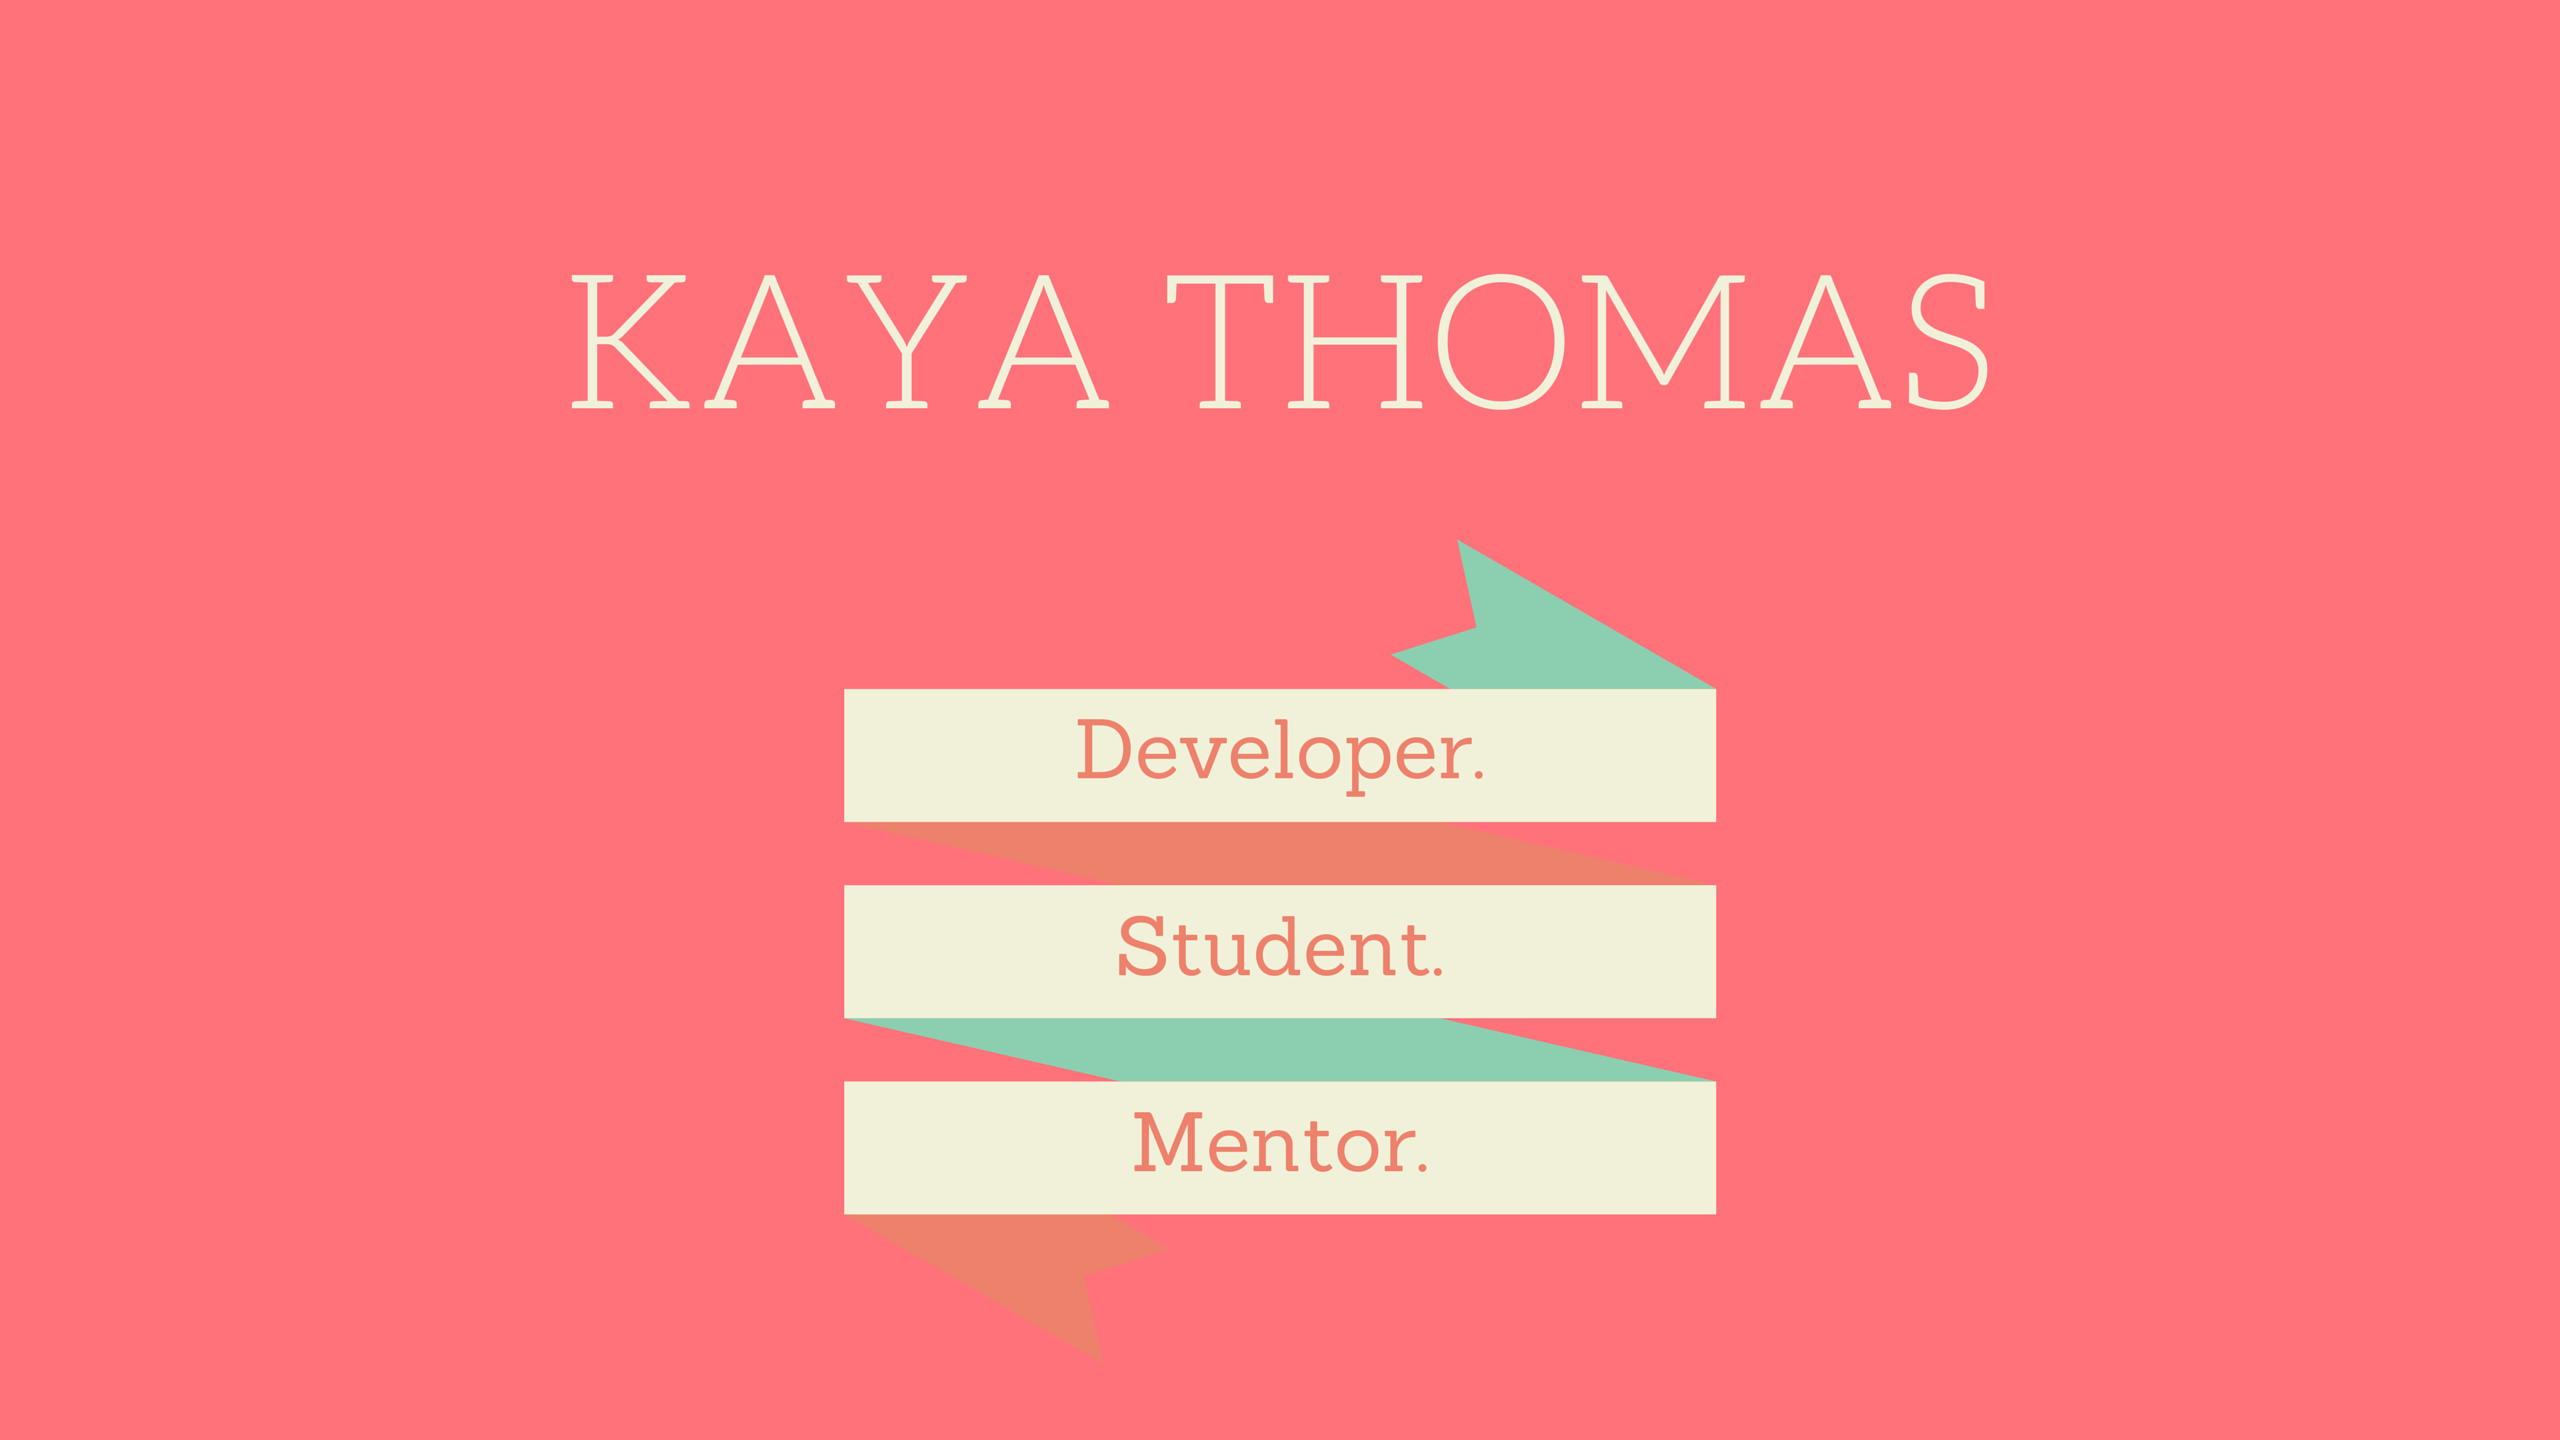
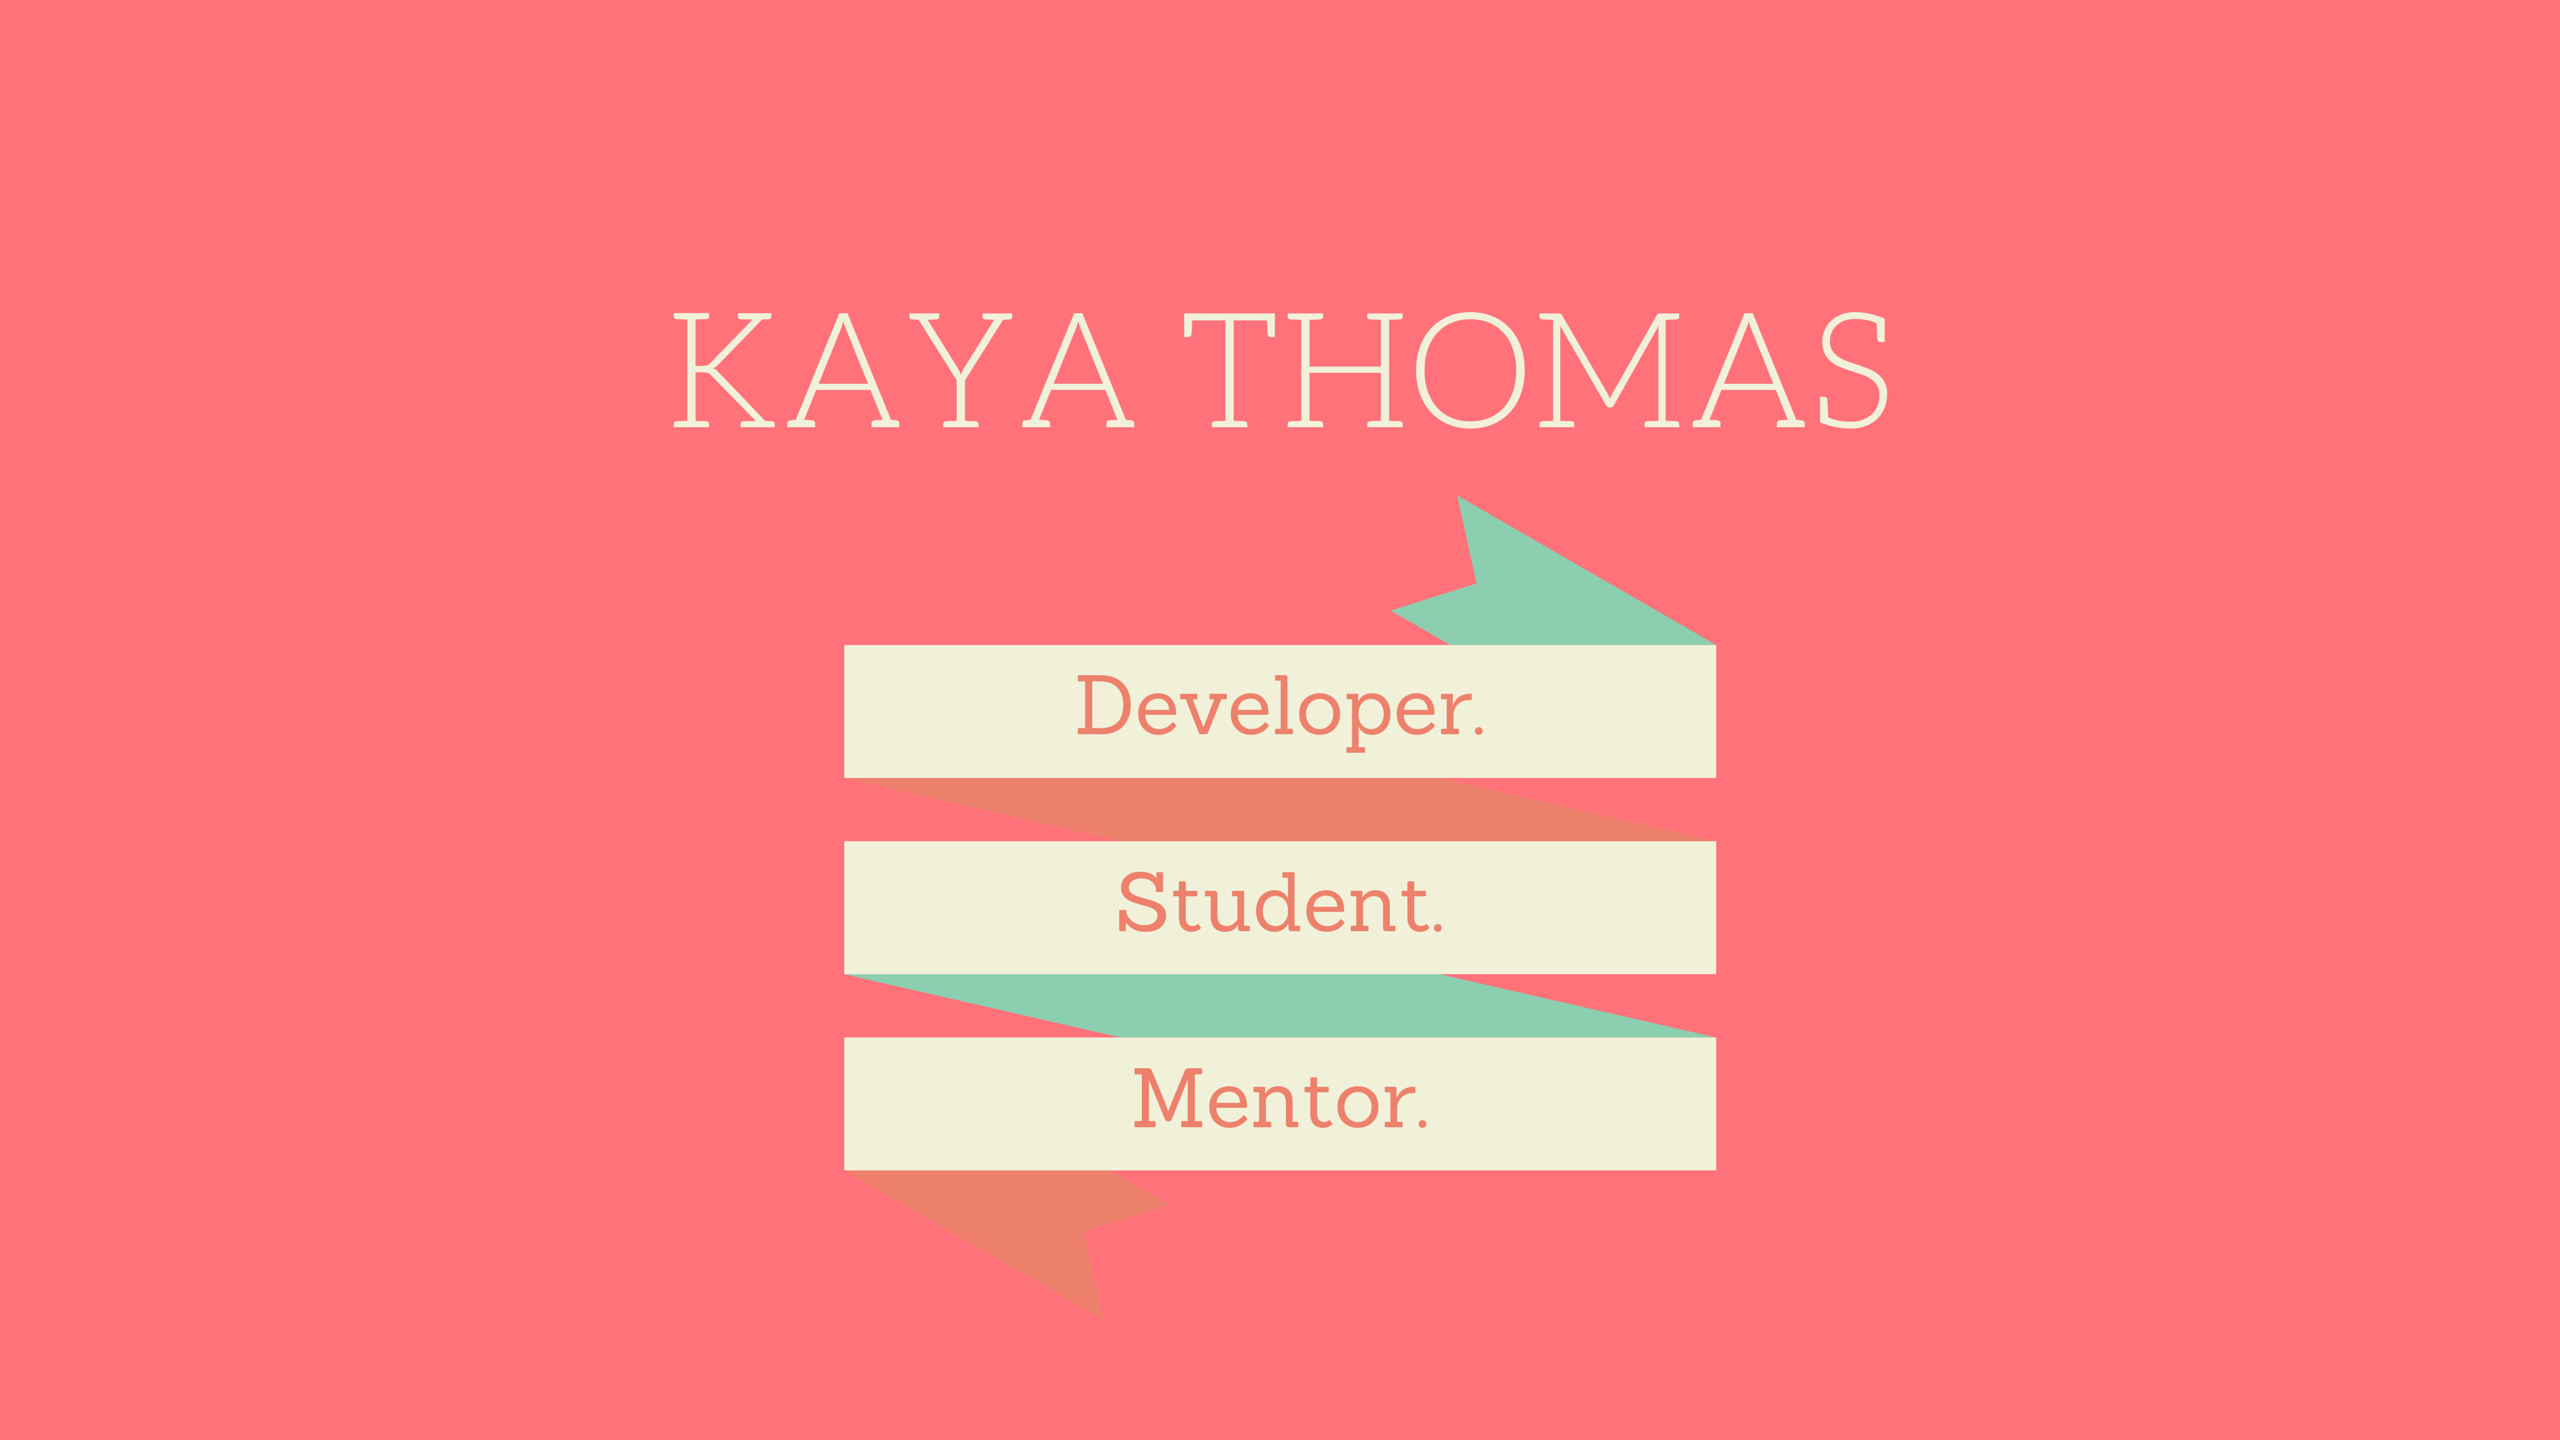
Updating header image and margins

Changed region(s): [[0.3125, 0.3438, 0.6875, 0.8438], [0.2188, 0.1875, 0.7812, 0.3125]]

diff --git a/assets/css/main.css b/assets/css/main.css
@@ -139,7 +139,7 @@ a:after {
 	text-align:center;
 	background-attachment: relative;
 	background-position: center center;
-	min-height: 500px;
+	min-height: 700px;
 	width: 100%;
 	
     -webkit-background-size: 100%;
